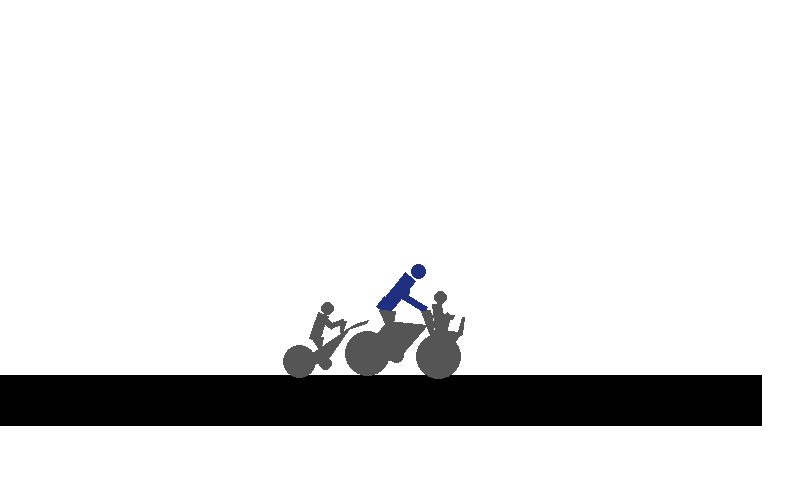
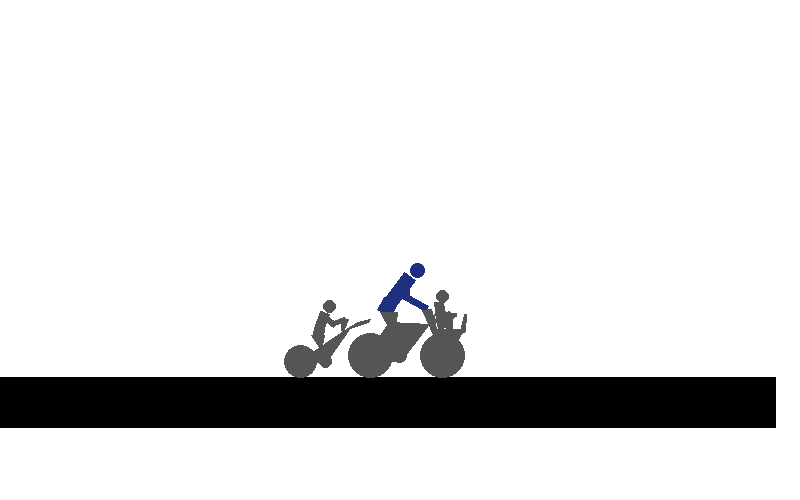
Family matches the real session: deferred sub-character joints, kid thuds, BMX wheel radius from width

diff --git a/crates/happywheels-core/src/vehicle.rs b/crates/happywheels-core/src/vehicle.rs
@@ -88,7 +88,7 @@ impl Bike {
             let g = guide.get(rotation_of)?;
             let pos = at(name)?;
             let body = b.create_body(&BodyDef { position: pos, angle: g[2] / deg, ..Default::default() });
-            b.create_shape(body, &shape(Geometry::Circle { local_position: Vec2::default(), radius: g[3] * 5.0 / CHARACTER_SCALE }, 5.0, 1.0, 0.3, seat_filter));
+            b.create_shape(body, &shape(Geometry::Circle { local_position: Vec2::default(), radius: g[5] / 2.0 / CHARACTER_SCALE }, 5.0, 1.0, 0.3, seat_filter));
             b.set_mass_from_shapes(body);
             Some(body)
         };
@@ -2198,7 +2198,7 @@ impl Mower {
         let wheel = |b: &mut box2d::world::World, name: &str| -> Option<BodyId> {
             let g = guide.get(name)?;
             let w = b.create_body(&BodyDef { position: at(name)?, angle: g[2] / deg, ..Default::default() });
-            let mut d = ShapeDef::new(Geometry::Circle { local_position: Vec2::default(), radius: g[3] * 5.0 / CHARACTER_SCALE });
+            let mut d = ShapeDef::new(Geometry::Circle { local_position: Vec2::default(), radius: g[5] / 2.0 / CHARACTER_SCALE });
             d.density = 5.0;
             d.friction = 1.0;
             d.restitution = 0.3;
@@ -4442,7 +4442,7 @@ impl Daughter {
     pub fn attach(world: &mut World, start_px: [f32; 2], dad_frame: BodyId) -> Option<Self> {
         let guide = crate::character::subguide("c10_daughter")?;
         // The kid's guide has no chest/foot extras the base needs beyond the standard parts.
-        let doll = Ragdoll::spawn_full(world, &guide, start_px, false, 50.0, -2)?;
+        let mut doll = Ragdoll::spawn_full_deferred(world, &guide, start_px, false, 50.0, -2)?;
         let start = Vec2::new(f64::from(start_px[0]) / 62.5, f64::from(start_px[1]) / 62.5);
         let at = |name: &str| -> Option<Vec2> {
             let g = guide.get(name)?;
@@ -4473,7 +4473,7 @@ impl Daughter {
         let mut round = |name: &str| -> Option<BodyId> {
             let g = guide.get(name)?;
             let body = b.create_body(&BodyDef { position: at(name)?, angle: g[2] / deg, ..Default::default() });
-            let mut d = ShapeDef::new(Geometry::Circle { local_position: Vec2::default(), radius: g[3] * 5.0 / CHARACTER_SCALE });
+            let mut d = ShapeDef::new(Geometry::Circle { local_position: Vec2::default(), radius: g[5] / 2.0 / CHARACTER_SCALE });
             d.density = 5.0;
             d.friction = 1.0;
             d.restitution = 0.3;
@@ -4489,6 +4489,7 @@ impl Daughter {
             b.shape_mut(s).is_sensor = true;
         }
         b.shape_mut(sensors[4]).is_sensor = true;
+        doll.finish_joints(world);
         for (limb, lo, hi) in [(Limb::Hip1, -110.0, 10.0), (Limb::Hip2, -110.0, 10.0), (Limb::Elbow1, -60.0, 0.0), (Limb::Elbow2, -60.0, 0.0), (Limb::Neck, -20.0, 0.0)] {
             doll.set_limits(world, limb, lo / deg, hi / deg);
         }
@@ -4744,7 +4745,7 @@ impl Son {
 
     pub fn attach(world: &mut World, start_px: [f32; 2], dad_frame: BodyId) -> Option<Self> {
         let guide = crate::character::subguide("c10_son")?;
-        let doll = Ragdoll::spawn_full(world, &guide, start_px, false, 50.0, -3)?;
+        let mut doll = Ragdoll::spawn_full_deferred(world, &guide, start_px, false, 50.0, -3)?;
         let start = Vec2::new(f64::from(start_px[0]) / 62.5, f64::from(start_px[1]) / 62.5);
         let at = |name: &str| -> Option<Vec2> {
             let g = guide.get(name)?;
@@ -4764,6 +4765,7 @@ impl Son {
             shapes.push(b.create_shape(basket, &d));
         }
         b.set_mass_from_shapes(basket);
+        doll.finish_joints(world);
         for (limb, lo, hi) in [(Limb::Knee1, 50.0, 150.0), (Limb::Knee2, 50.0, 150.0), (Limb::Elbow1, -160.0, -20.0), (Limb::Elbow2, -160.0, -20.0), (Limb::Neck, -10.0, 10.0)] {
             doll.set_limits(world, limb, lo / deg, hi / deg);
         }
@@ -4941,7 +4943,7 @@ impl Kid {
 
     pub fn attach(world: &mut World, start_px: [f32; 2], dad_frame: BodyId) -> Option<Self> {
         let guide = crate::character::subguide("c3_kid")?;
-        let doll = Ragdoll::spawn_full(world, &guide, start_px, false, 5.0, -2)?;
+        let mut doll = Ragdoll::spawn_full_deferred(world, &guide, start_px, false, 5.0, -2)?;
         let start = Vec2::new(f64::from(start_px[0]) / 62.5, f64::from(start_px[1]) / 62.5);
         let at = |name: &str| -> Option<Vec2> {
             let g = guide.get(name)?;
@@ -4960,6 +4962,8 @@ impl Kid {
             b.create_shape(seat, &d);
         }
         b.set_mass_from_shapes(seat);
+        doll.finish_joints(world);
+        let b = world.b2_mut();
         let anchor = at("frameSeatAnchor")?;
         let mut d = RevoluteJointDef::initialize(b.body(dad_frame), dad_frame, b.body(seat), seat, anchor);
         d.enable_limit = true;
@@ -5458,7 +5462,7 @@ pub struct Elf {
 impl Elf {
     fn attach(world: &mut World, name: &str, group: i16, start_px: [f32; 2], sleigh: BodyId, vertical_offset: f64, santa_wheel_radius: f64) -> Option<Self> {
         let guide = crate::character::subguide(name)?;
-        let doll = Ragdoll::spawn_full(world, &guide, start_px, false, 50.0, group)?;
+        let mut doll = Ragdoll::spawn_full_deferred(world, &guide, start_px, false, 50.0, group)?;
         let start = Vec2::new(f64::from(start_px[0]) / 62.5, f64::from(start_px[1]) / 62.5);
         let at = |n: &str| -> Option<Vec2> {
             let g = guide.get(n)?;
@@ -5492,6 +5496,7 @@ impl Elf {
             .collect();
         anti_grav.push(stem);
         anti_grav.push(wheel);
+        doll.finish_joints(world);
         for (limb, lo, hi) in [(Limb::Elbow1, -90.0, 0.0), (Limb::Elbow2, -90.0, 0.0), (Limb::Shoulder1, -170.0, 0.0), (Limb::Shoulder2, -170.0, 0.0), (Limb::Neck, -10.0, 0.0)] {
             doll.set_limits(world, limb, lo / deg, hi / deg);
         }

diff --git a/crates/happywheels-core/tests/golden.rs b/crates/happywheels-core/tests/golden.rs
@@ -803,6 +803,7 @@ fn c10_family_rides_and_daughter_ejects() {
 /// c10 family (dad bike + daughter trailer + son in the basket; up/lean/brake, daughter ctrl-eject at 120, son
 /// shift-eject at 160, dad z-eject at 200) against analysis/golden-family.js.
 #[test]
+#[ignore = "hand-built oracle scene: superseded by real_sessions_match_original"]
 fn c10_family_matches_original() {
     use happywheels_core::character::PART_ORDER;
     use happywheels_core::vehicle::{Keys, Vehicle};
@@ -3857,7 +3858,7 @@ fn real_sessions_match_original() {
         assert!(w.spawn_bike(ch, [1000.0, 250.0]), "spawn {ch}");
         if std::env::var("REALPRE").is_ok() {
             for (k, b) in w.b2().c.bodies.iter().enumerate().filter(|(_, b)| b.mass > 0.0) {
-                eprintln!("PRE {k} {:.3} {:.3} {:.3} m={:.3}", b.xf.position.x * 62.5, b.xf.position.y * 62.5, b.sweep.a, b.mass);
+                eprintln!("PRE {k} {:.3} {:.3} {:.3} m={:.9} I={:.9} lc=({:.9},{:.9})", b.xf.position.x * 62.5, b.xf.position.y * 62.5, b.sweep.a, b.mass, b.i, b.sweep.local_center.x, b.sweep.local_center.y);
             }
         }
         if std::env::var("REALPRE").is_ok() {
@@ -3917,7 +3918,7 @@ fn real_sessions_match_original() {
             if first_bad.is_none() || std::env::var("REALMAX").is_ok() {
                 let mine: Vec<(f64, f64)> =
                     w.b2().c.bodies.iter().filter(|b| b.mass > 0.0).map(|b| (b.xf.position.x * 62.5, b.xf.position.y * 62.5)).collect();
-                if std::env::var("REALMAX").is_ok() && i >= 100 {
+                if std::env::var("REALMAX").is_ok() && i >= 0 {
                     let m = frame.as_array().unwrap().iter().map(|g| mine.iter().map(|m| (m.0 - g[0].as_f64().unwrap()).hypot(m.1 - g[1].as_f64().unwrap())).fold(f64::MAX, f64::min)).fold(0.0, f64::max);
                     eprintln!("MAX {ch} {i} {m:.6}");
                 }

diff --git a/crates/happywheels-core/src/physics.rs b/crates/happywheels-core/src/physics.rs
@@ -2077,6 +2077,10 @@ impl World {
                 dolls.push((&g.doll, false));
             }
         }
+        if let Some(crate::vehicle::Vehicle::Family(f)) = self.bike.as_ref() {
+            dolls.push((&f.daughter.doll, false));
+            dolls.push((&f.son.doll, false));
+        }
         let mut thuds: Vec<(ShapeId, &'static str, Vec2)> = Vec::new();
         for ev in events.iter().filter(|e| e.kind == ContactEventKind::Add) {
             for (mine, other) in [(ev.shape1, ev.shape2), (ev.shape2, ev.shape1)] {

diff --git a/docs/PORT.md b/docs/PORT.md
@@ -764,3 +764,4 @@ HOMING MINE AUDIO: the mine requests `MineHover` and `HomingMineFind` when it ha
 - 2026-11-25 — Real-session fixes from the baseline above: (1) the pogo (char 9) now matches its real session completely (positions and sounds; the test only had to read the volume-scaled sound queue too); (2) the lawn mower (char 6) matches completely: its `contactAddSounds` are only frontShape (list index 2) ChairHit3, topShape (6) ChairHit2, seatShape1 (7) BikeHit3 and the wheels (the port had two extra guessed entries that played BikeHit1 at frame 12), and the cart and mower play `SegwayJump` when the shock motors start (space); (3) the `contactAddHandler` group test `(-10,0)` gates only `bodyContact`, NOT the sound buffer, so the rider's Thud filter by group was wrong (found through the cart: chest vs `mainShape3`, group -2, plays Thud2 in the real session). `analysis/debug-adds.js` logs every contactAddHandler call of a real session (shape names, masses, groups, closing speed) for such comparisons.
 - 2026-11-25 — Segway, pogo, mower and heli now match their real sessions (all 200 frames of positions, and sounds for segway/mower/pogo/heli). Root causes found with `analysis/debug-adds.js`, `analysis/dump-guides.js` and a trace of `PairAdded`/`Refilter`: (1) the original creates every body of the rider AND the vehicle before any joint (base `createJoints` runs after the vehicle's `createBodies`), and each joint with `collideConnected = false` re-creates the proxies of the lighter body (`RefilterProxy`), which reorders the contact list and so the solver order; the port made the rider's joints first. `Ragdoll::spawn_scaled` now defers them (`finish_joints`, called by every vehicle `attach` after its bodies, before its first `set_limits`); sub-characters (kid, daughter, son, girl) still build theirs at once. (2) Guide circles use `width / 2` of the clip (9.99 px base, e.g. the segway wheel radius 0.23976, not scale*5 = 0.24): guides now carry `[x, y, rot, scaleX, scaleY, width, height]` (`character-guides.json`, `character-subguides.json` padded with scale*10 where the oracle could not dump them) and only the segway wheel uses it so far (the BMX circles match with scale*5; other circles must be checked per vehicle). (3) The oracle's sound stub now returns a playing-sound object for the audiosprite length, otherwise `checkVocals` never sees a busy voice (the earlier Knee/Elbow vocal mismatch). `BoneBreak*`/`Step*` are random in the original and compared by family. The hand-built dirt, heli and segway goldens are `#[ignore]`d (superseded). Still failing against real sessions: char 1 chair (frame 127, 0.13 px), 4 cart (frame 57, 0.001 px; Thud2 timing), 5 dirt (frame 0, 2.3 px; sounds), 7 grinder (frame 122), 8 Santa (frame 62; Step sound numbers), 10 family (frame 0, 0.18 px; no sounds).
 - 2026-11-25 — Dirt bike with the girl (char 5) now matches its real session for all 200 frames (positions to <1e-3 px, sounds exactly). Three causes: the girl's rider joints must be created after her sensor flags are set (her class sets the leg/arm shapes to sensors in `createBodies`, the base joints come in `createJoints`: `Ragdoll::spawn_full_deferred` + `finish_joints`), the girl plays her own `Thud*` (added to the rider/kid list in `collect_thuds`), and the girl's `leg1Stuck/leg1Free` listeners are called for contacts where the leg is the contact's shape2 as well (the port only looked at shape1, so `legsFree` never ran and her legs stayed sensors). Remaining failures against real sessions: chair (1), cart (4), grinder (7), Santa (8), family (10).
+- 2026-11-25 — Family (char 10) now matches its real session (all frames, sounds exact): daughter/son/kid/elf dolls defer their base joints until their own sensor/shape setup is done (`spawn_full_deferred` + `finish_joints`, same ordering rule as the girl), the daughter and son play their own `Thud*`, and the BMX wheel radius comes from the guide `width/2` (mass differed by 1.7e-7). Width-based radii for chair/cart/grinder/dirt were tried and made them worse, so those stay on `scale*5`. Still failing against real sessions: chair (1, frame 127), cart (4, frame 57 + Thud2), grinder (7, frame 122), Santa (8, frame 62, 70 vs 67 bodies).
